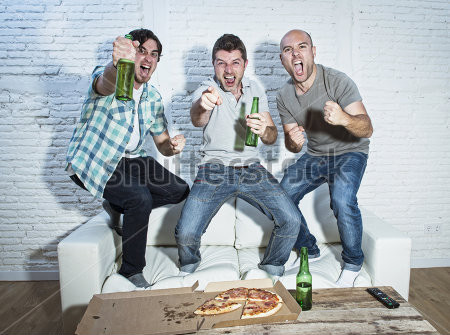
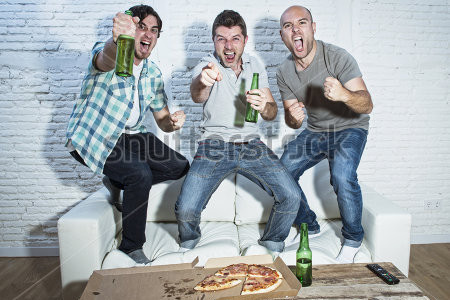
fix slider

diff --git a/src/components/Home/Home.js b/src/components/Home/Home.js
@@ -1,21 +1,11 @@
 import React, {Component} from 'react';
-import 'slick-carousel/slick/slick.css';
-import 'slick-carousel/slick/slick-theme.css';
 import './Home.css';
-import Slider from 'react-slick';
+import Carousel from 'nuka-carousel';
 import presentation from './presentation.jpg';
 import joy from './joy.jpg';
 import doubt from './doubt.jpg';
 import relief from './relief.jpg';
 import SliderCard from '../SliderCard/SliderCard';
-
-const settings = {
-    dots: true,
-    infinite: true,
-    speed: 500,
-    slidesToShow: 1,
-    slidesToScroll: 1
-};
 
 class Home extends Component {
 
@@ -23,7 +13,7 @@ class Home extends Component {
         return (
             <div>
                 <h2>Tell me who has purchased him now!!!</h2>
-                <Slider {...settings}>
+                <Carousel fixedHeight={false}>
                     <div>
                       <SliderCard title="Let's talk about this group of 3 MPG players watching a soccer game on TV." image={presentation}/>
                     </div>
@@ -36,7 +26,7 @@ class Home extends Component {
                     <div>
                       <SliderCard title="And yeahhh, they find it instantly!!! the scorer didn't play against them." image={relief}/>
                     </div>
-                </Slider>
+                </Carousel>
             </div>
         );
     }

diff --git a/src/components/SliderCard/SliderCard.js b/src/components/SliderCard/SliderCard.js
@@ -4,8 +4,8 @@ import './SliderCard.css';
 const SliderCard = ({title, image}) => {
     return (
         <div className="SliderCard">
-          <img src={image} alt="logo" />
-          <h3>{title}</h3>
+          <img className="SliderCard__image" src={image} alt="logo" />
+          <h3 className="SliderCard__title">{title}</h3>
         </div>
     );
 }

diff --git a/src/components/SliderCard/SliderCard.css b/src/components/SliderCard/SliderCard.css
@@ -4,3 +4,12 @@
   justify-content: center;
   flex-direction: column;
 }
+
+.SliderCard__image {
+  width: 100%;
+  max-width: 450px;
+}
+
+.SliderCard__title {
+  font-size: 1em;
+}
